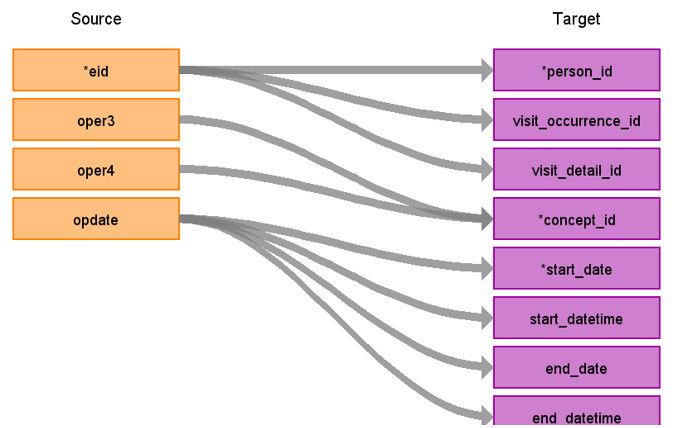
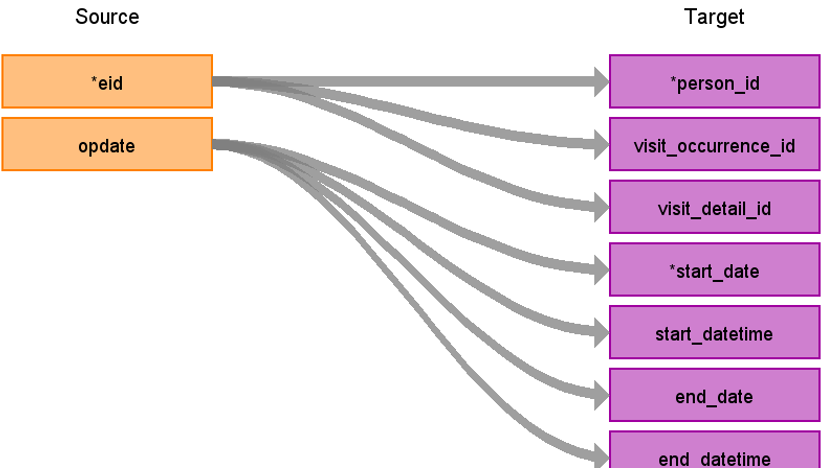
Updating ETL Docs

diff --git a/UK_BIOBANK/UKB_HESIN/UKB_HESIN_Visit_Occurrence.md b/UK_BIOBANK/UKB_HESIN/UKB_HESIN_Visit_Occurrence.md
@@ -30,8 +30,8 @@ description: "VISIT_OCCURRENCE mapping from HESIN table"
 | care_site_id | NULL| |  |
 | visit_source_value | ins_index |  | This will allow us to retrieve Visit_occurrence_id. |
 | visit_source_concept_id |NULL  |  |  |
-| admitted_from_concept_id | admimeth_uni | use admimeth_uni to retrieve the target_concept_id from source_to_standard_vocab_map by doing a INNER JOIN to source_to_standard_vocab_map as t1 on CONCAT('264-',hesin.admimeth_uni) = t1.source_code AND t1.target_domain_id = 'visit' AND t1.source_vocabulary_id = “HESIN_ADMIMETH_STCM”. |  |
-| admitted_from_source_value | admimeth_uni | use admimeth_uni to retrieve the source_code_description from source_to_standard_vocab_map by doing a INNER JOIN to source_to_standard_vocab_map as t1 on CONCAT('264-',hesin.admimeth_uni) = t1.source_code AND t1.target_domain_id = 'visit' AND t1.source_vocabulary_id = “HESIN_ADMIMETH_STCM”.|  |
+| admitted_from_concept_id | admimeth_uni | use admimeth_uni to retrieve the target_concept_id from source_to_standard_vocab_map by doing a INNER JOIN to source_to_standard_vocab_map as t1 on CONCAT('264-',hesin.admimeth_uni) = t1.source_code AND t1.target_domain_id = 'visit' AND t1.source_vocabulary_id = “UKB_ADMIMETH_STCM”. |  |
+| admitted_from_source_value | admimeth_uni | use admimeth_uni to retrieve the source_code_description from source_to_standard_vocab_map by doing a INNER JOIN to source_to_standard_vocab_map as t1 on CONCAT('264-',hesin.admimeth_uni) = t1.source_code AND t1.target_domain_id = 'visit' AND t1.source_vocabulary_id = “UKB_ADMIMETH_STCM”.|  |
 | discharged_to_concept_id | NULL | |  |
 | discharged_to_source_value | NULL | |  |
 | preceding_visit_occurrence_id |  | Using eid+ins_index, look up the episode that occurs prior to this and put the visit_occurrence_id here. |  |

diff --git a/UK_BIOBANK/UKB_HESIN/UKB_HESIN_Visit_Detail.md b/UK_BIOBANK/UKB_HESIN/UKB_HESIN_Visit_Detail.md
@@ -30,8 +30,8 @@ description: "visit_detail mapping from hesin_critical & hesin_psych tables"
 | care_site_id| NULL | | |
 | visit_detail_source_value| ins_index | | |
 | visit_detail_source_concept_id| NULL | | |
-| admitted_from_concept_id| ccadmisorc | use ccadmisorc to retrieve the target_concept_id from source_to_standard_vocab_map by doing a LEFT JOIN to source_to_standard_vocab_map as t2 on CONCAT('7004-',hesin_critical.ccadmisorc) = t2.source_code AND t2.source_vocabulary_id = “HESIN_CCADMISORC_STCM”.| |
-| admitted_from_source_value| ccadmisorc | use ccadmisorc to retrieve the source_code_description from source_to_standard_vocab_map by doing a LEFT JOIN to source_to_standard_vocab_map as t2 on CONCAT('7004-',hesin_critical.ccadmisorc) = t2.source_code AND t2.source_vocabulary_id = “HESIN_CCADMISORC_STCM”.| |
+| admitted_from_concept_id| ccadmisorc | use ccadmisorc to retrieve the target_concept_id from source_to_standard_vocab_map by doing a LEFT JOIN to source_to_standard_vocab_map as t2 on CONCAT('7004-',hesin_critical.ccadmisorc) = t2.source_code AND t2.source_vocabulary_id = “UKB_CCADMISORC_STCM”.| |
+| admitted_from_source_value| ccadmisorc | use ccadmisorc to retrieve the source_code_description from source_to_standard_vocab_map by doing a LEFT JOIN to source_to_standard_vocab_map as t2 on CONCAT('7004-',hesin_critical.ccadmisorc) = t2.source_code AND t2.source_vocabulary_id = “UKB_CCADMISORC_STCM”.| |
 | discharged_to_source_value| NULL | | |
 | discharged_to_concept_id| NULL | | |
 | preceding_visit_detail_id| NULL | | |

diff --git a/UK_BIOBANK/UKB_HESIN/UKB_HESIN_STEM.md b/UK_BIOBANK/UKB_HESIN/UKB_HESIN_STEM.md
@@ -49,11 +49,11 @@ description: "Stem table description"
 | source_value| oper4|||
 | source_concept_id | oper4 | concept_id of oper4 | |
 | type_concept_id |  | 32829 | |
-| modifier_source_value | level | | |
+| modifier_source_value | | | |
 | start_date | opdate | | |
 | start_datetime | opdate |   | |
 | end_date | opdate | | |
 | end_datetime | opdate | | |
 | end_datetime | opdate | | |
-| concept_id  | oper4 | WHEN LENGTH(hesin_oper.oper4) = 4 THEN CONCAT(LEFT(hesin_oper.oper4, 3), '.', RIGHT(hesin_oper.oper4, 1))  |  |
+| concept_id  | NULL  |  |  |
 | stem_source_table | | "hesin_oper" | |
